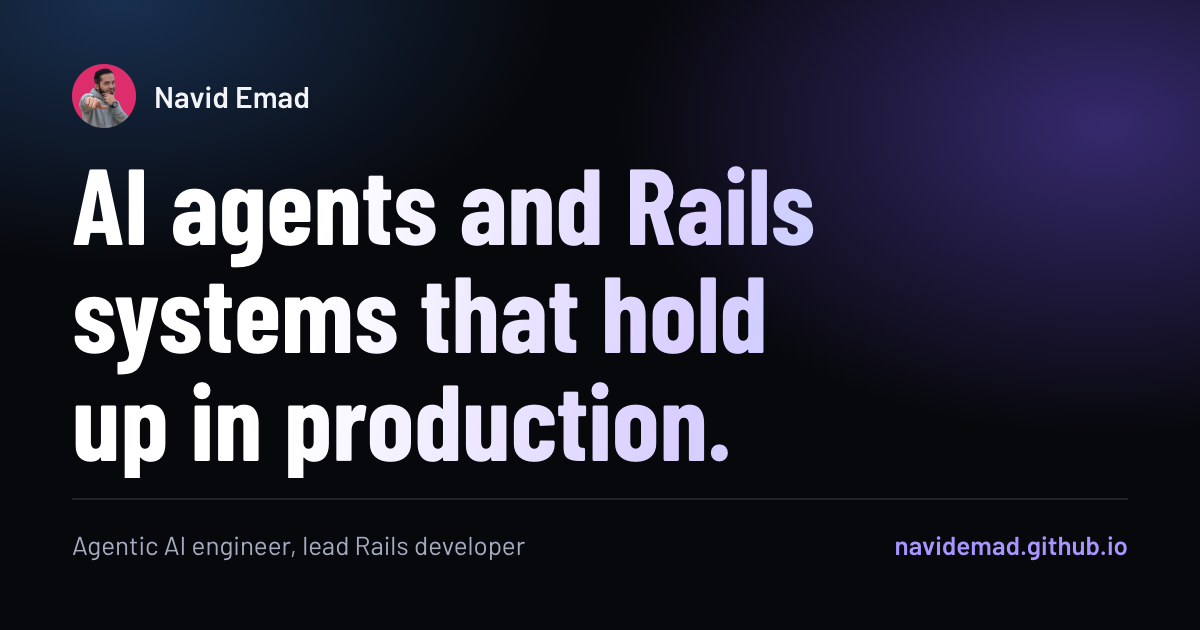
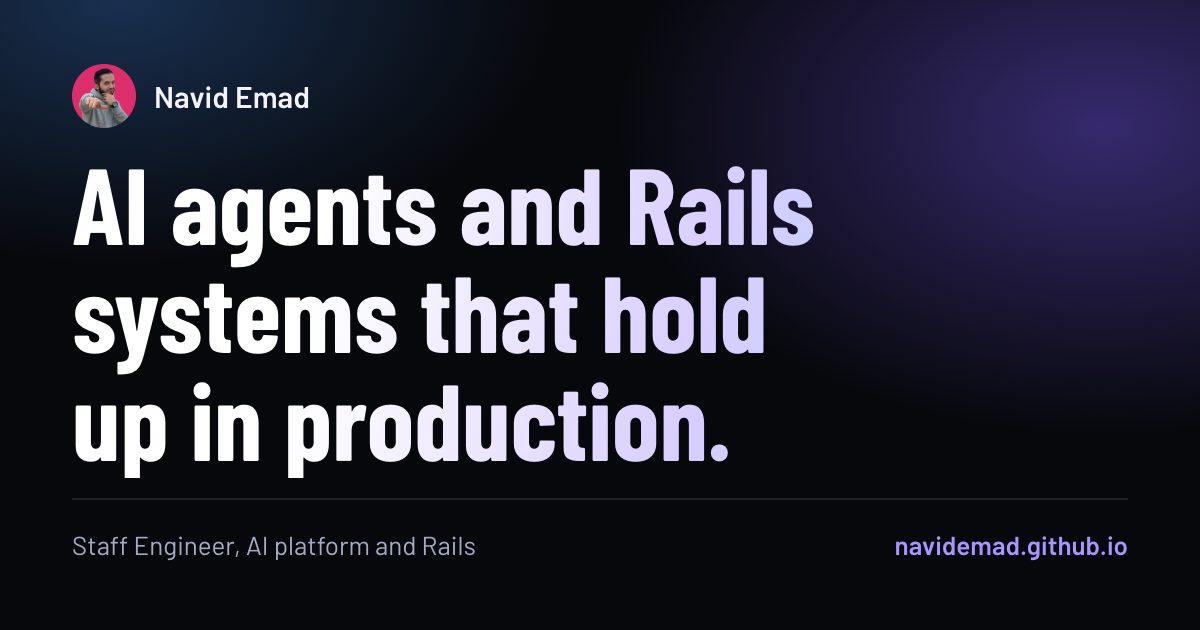
One job title everywhere: Staff Engineer, AI Platform & Rails (hero, page title, metadata, JSON-LD, share image)

Changed region(s): [[0.0617, 0.8444, 0.4317, 0.9048]]

diff --git a/index.html b/index.html
@@ -3,10 +3,10 @@
   <head>
     <meta charset="utf-8" />
     <meta name="viewport" content="width=device-width, initial-scale=1" />
-    <title>Navid Emad - Agentic AI Engineer & Lead Rails Developer</title>
+    <title>Navid Emad - Staff Engineer, AI Platform & Rails</title>
     <meta
       name="description"
-      content="Navid Emad, agentic AI engineer and lead Ruby on Rails developer. AI agents wired into real production workflows, Rails performance, fractional lead, and co-building with founders. 170+ merged open-source pull requests."
+      content="Navid Emad, staff engineer for AI platform and Ruby on Rails. AI agents wired into real production workflows, Rails performance, fractional lead, and co-building with founders. 170+ merged open-source pull requests."
     />
     <meta name="color-scheme" content="dark" />
     <meta name="theme-color" content="#07080c" />
@@ -16,7 +16,7 @@
     <link rel="alternate" hreflang="x-default" href="https://navidemad.github.io/" />
     <meta property="og:type" content="website" />
     <meta property="og:url" content="https://navidemad.github.io/" />
-    <meta property="og:title" content="Navid Emad - Agentic AI Engineer & Lead Rails Developer" />
+    <meta property="og:title" content="Navid Emad - Staff Engineer, AI Platform & Rails" />
     <meta
       property="og:description"
       content="AI agents and Rails systems that hold up in production. Open to freelance work and to founders who need a developer to build with. Every number verifiable on GitHub."
@@ -43,7 +43,7 @@
         "name": "Navid Emad",
         "url": "https://navidemad.github.io/",
         "image": "https://navidemad.github.io/avatar.jpg",
-        "jobTitle": "Agentic AI Engineer & Lead Ruby on Rails Developer",
+        "jobTitle": "Staff Engineer, AI Platform & Ruby on Rails",
         "email": "mailto:navid.emad@yespark.fr",
         "worksFor": { "@type": "Organization", "name": "Yespark" },
         "nationality": { "@type": "Country", "name": "France" },
@@ -131,7 +131,7 @@
         <div class="container">
           <div class="hero-copy">
             <h1 class="sheen" data-i18n="hero.title">AI agents and web systems that hold up in production.</h1>
-            <p class="lede" data-i18n="hero.intro"><span>Staff engineer and lead developer at <span class="org"><img src="logos/yespark.svg" width="22" height="22" alt="" />Yespark</span>, where I own the Rails platform and the AI tooling the team ships with.</span><span>Open-source maintainer and contributor.</span></p>
+            <p class="lede" data-i18n="hero.intro"><span>Staff Engineer at <span class="org"><img src="logos/yespark.svg" width="22" height="22" alt="" />Yespark</span>, where I own the Rails platform and the AI tooling the team ships with.</span><span>Open-source maintainer and contributor.</span></p>
             <p class="availability" data-i18n="hero.availability">Available for freelance work · Paris or remote</p>
             <div class="actions">
               <a class="btn primary" href="https://calendly.com/design-navid/30min" data-i18n="cta.book">Book a 30-minute call</a>

diff --git a/site.js b/site.js
@@ -31,9 +31,9 @@
     "oss.maintainer": "Mainteneur",
     "oss.px.role": "J’ai co-développé Pixel pour que les agents de code retrouvent les appels à une méthode et ses tests, avec les fichiers et les lignes correspondants.",
     "oss.cap.role": "Auteur. Les tests système Rails, sur Lightpanda",
-    "meta.title": "Navid Emad - Ingénieur IA agentique & Lead Developer Rails",
+    "meta.title": "Navid Emad - Staff Engineer, plateforme IA & Rails",
     "hero.title": "Agents IA et systèmes web qui tiennent en production.",
-    "hero.intro": '<span>Staff engineer et lead developer chez <span class="org"><img src="logos/yespark.svg" width="22" height="22" alt="" />Yespark</span>, responsable de la plateforme Rails et de l’outillage IA de l’équipe.</span><span>Mainteneur et contributeur open source.</span>',
+    "hero.intro": '<span>Staff Engineer chez <span class="org"><img src="logos/yespark.svg" width="22" height="22" alt="" />Yespark</span>, responsable de la plateforme Rails et de l’outillage IA de l’équipe.</span><span>Mainteneur et contributeur open source.</span>',
     "hero.availability": "Disponible en freelance · Paris ou à distance",
     "oss.sub": "Une sélection de pull requests et les projets que je maintiens ou auxquels je contribue.",
     "oss.lp.role": "Navigateur headless conçu pour les agents IA et l’automatisation, en Zig",

diff --git a/tools/og-image.html b/tools/og-image.html
@@ -54,7 +54,7 @@
     <p class="who"><img src="../avatar.jpg" alt="" />Navid Emad</p>
     <h1 class="sheen">AI agents and Rails systems that hold up in production.</h1>
     <p class="foot">
-      <span>Agentic AI engineer, lead Rails developer</span>
+      <span>Staff Engineer, AI platform and Rails</span>
       <b>navidemad.github.io</b>
     </p>
   </body>
